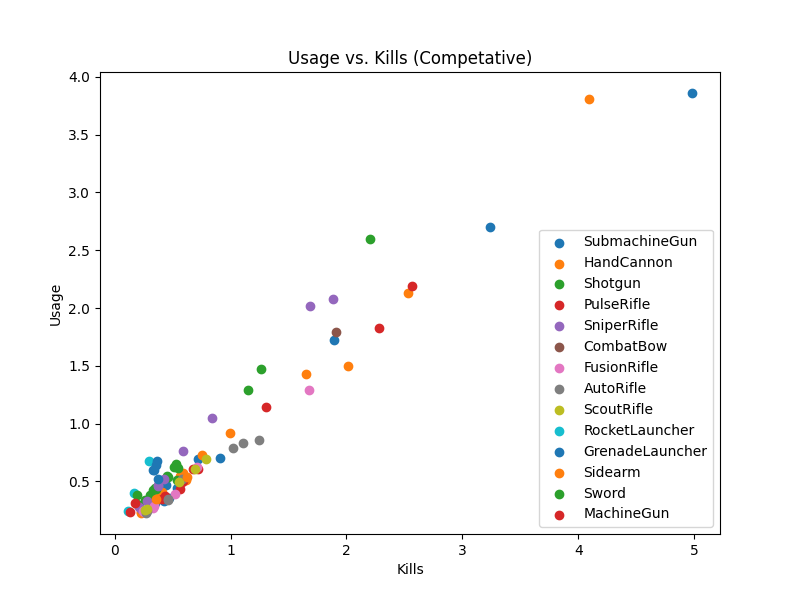
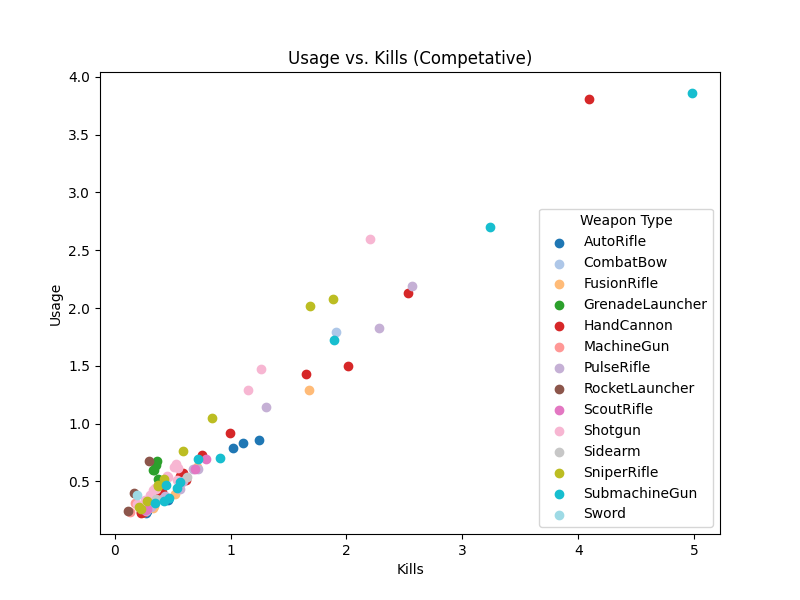
fixed duplicate colors in scatter plot

diff --git a/visualize.py b/visualize.py
@@ -20,23 +20,25 @@ def saveGridElements(data, Name):
 
     # Create a scatter plot of Usage vs. Kills
     fig, ax = plt.subplots(figsize=(8, 6))
-    colors = list(mcolors.TABLEAU_COLORS.values())
+
+    # Get a list of unique weapon types
+    unique_types = np.unique(data['Type'])
+
+    # Create a custom color map with a unique color for each weapon type
+    num_colors = len(unique_types)
+    cmap = plt.cm.get_cmap('tab20', num_colors)
+
     # Scatter plot the data points with different colors for each weapon type
-    type_colors = {}
-    for i, t in enumerate(data['Type'].unique()):
+    for i, t in enumerate(unique_types):
         d = data[data['Type'] == t]
-        ax.scatter(d['Kills'], d['Usage'], color=colors[i % len(colors)])
-        type_colors[t] = colors[i % len(colors)]
+        ax.scatter(d['Kills'], d['Usage'], color=cmap(i), label=t)
 
     ax.set_title('Usage vs. Kills ({})'.format(Name))
     ax.set_xlabel('Kills')
     ax.set_ylabel('Usage')
 
     # Add legend with color codes for each weapon type
-    legend_handles = []
-    for t in type_colors:
-        legend_handles.append(ax.scatter([], [], color=type_colors[t], label=t))
-    ax.legend(handles=legend_handles)
+    ax.legend(title='Weapon Type')
 
     plt.savefig(Name+ '_Usage_vs_Kills')
     plt.close()

diff --git a/README.md b/README.md
@@ -3,33 +3,52 @@ A data visualization for the FPS game Destiny 2 to investigate and assess balanc
 
 
 ## Competative
-
-![CompetativeGrid](png/CompetativeVisGrid.png)
 Here are all the the visualizations for Competative
 
+![CompetativeGrid](png/CompetativeVisGrid.png)
+
+
+
 ![CompetativeAvgKillsbyRarity](png/Competative_Avg_Kills_by_Rarity_Type.png)
-A box plot for Average kills by rarity
+A heat map for Average kills by rarity
+
+We can clearly see that Exotic combat bows and sniper rifles are far superior to every other weapon class. However the usage is not showng and could paint a different picture.
+
 
 ![CompetativeAvgPercentagebyType](png/Competative_Avg_Percentage_by_Type.png)
+A bar chart for average percentages by type of Weapon
+Here we see that indeed the combat bow haw drastically more kills,headshots and usage than other weapon classes unlike sniper rifles who despite having more kills relative to all other weapon types second only to the combat bow it has a realtive tame usage percentage inline with other weapons. So we can infer that the combat bow is likely an outlier and needs rebalancing as it is being far more than other weapons and is getting more kills which indicates it is out of balance with other weapons.
 
 
 ![CompetativeRarityvsKills](png/Competative_Rarity_vs_Kills.png)
+A box plot for Kills by rarity
+Here we can see that the mean kill percentage of exotics is greater that that of legendaries which one would expect as exotics are the rariest in the game and as such should have a reasonble level of power associated with them. However the outliers of the legendary set indicate that there are some legendary weapons that need retuning as they are vastly outperforming the exotics. 
 
 
 ![CompetativeUsagevsKills](png/Competative_Usage_vs_Kills.png)
+A scatter plot for kills by usage for every weapon type
+Here we can see that the guns used the most and getting the most kills appear to be submachine guns and hand cannons which paired with the other charts show that strongest weapon and therefore the out of balance weapon is likely a legendary sub machine gun.
 
 ## Quickplay
-
+Here are all the the visualizations for Quickplay
 ![QuickplayGrid](png/QuickplayVisGrid.png)
-Here are all the the visualizations for Competative
 
+
+A heat map for Average kills by rarity
 ![QuickplayAvgKillsbyRarity](png/Quickplay_Avg_Kills_by_Rarity_Type.png)
-A box plot for Average kills by rarity
+Decidedly apart from Competative we can see with this heatmap that fusion rifles appear to be dominating in Quickplay at least in terms of average kills.
 
+A bar chart for average percentages by type of Weapon
 ![QuickplayAvgPercentagebyType](png/Quickplay_Avg_Percentage_by_Type.png)
+Here again we can see that the combat bows and sub machine guns seem to be doing far better relative to other weapons.
 
-
+A box plot for Kills by rarity
 ![QuickplayRarityvsKills](png/Quickplay_Rarity_vs_Kills.png)
+Similarly to competative the legendaries in quickplay seem to have quite a few outliers where as exotics have none at all.
 
 
+A scatter plot for kills by usage for every weapon type
 ![QuickplayUsagevsKills](png/Quickplay_Usage_vs_Kills.png)
+Here again we can see that sub machine guns are absolutely dominating all other weapon types ensuring the conclusion that legendary submachine guns are something to investigate further as they show markers of being heavily favored over other weapon types
+
+
